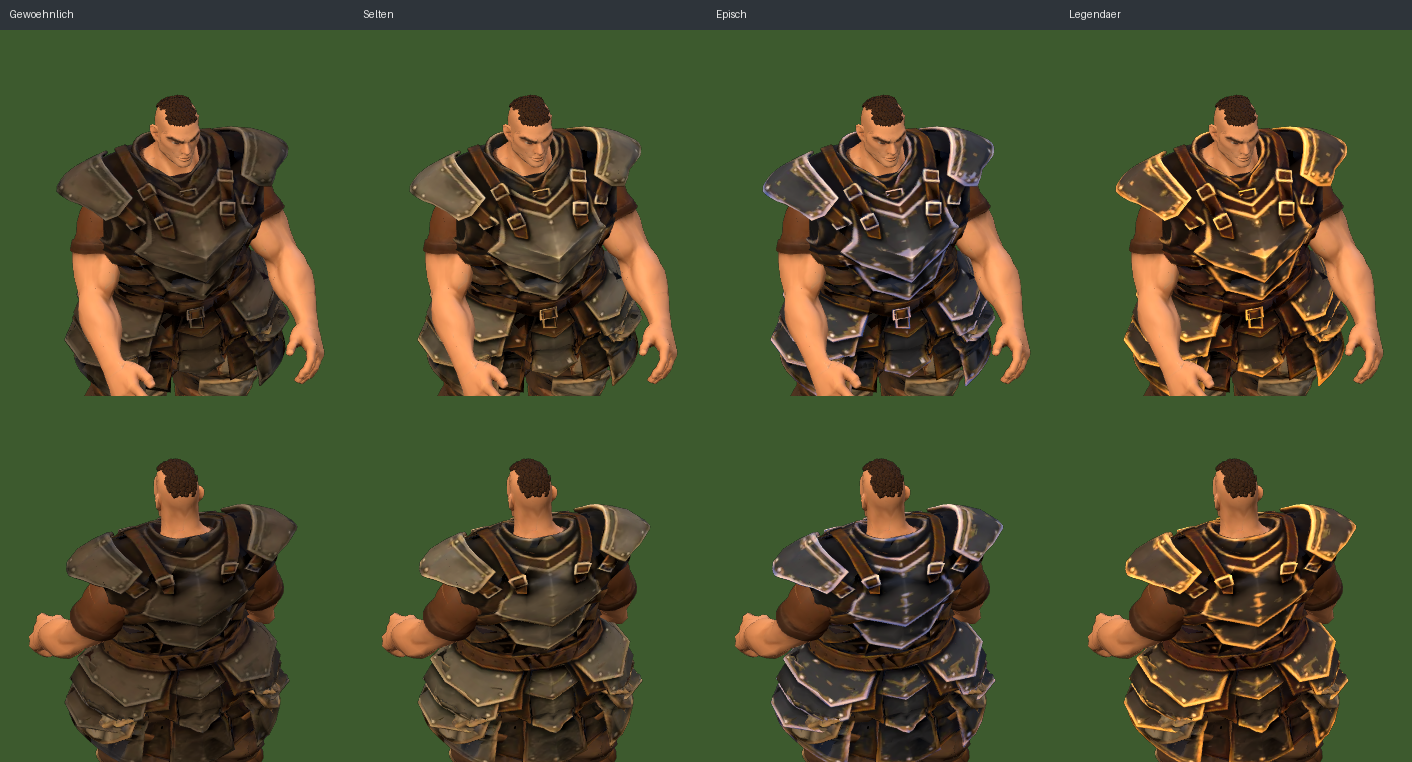
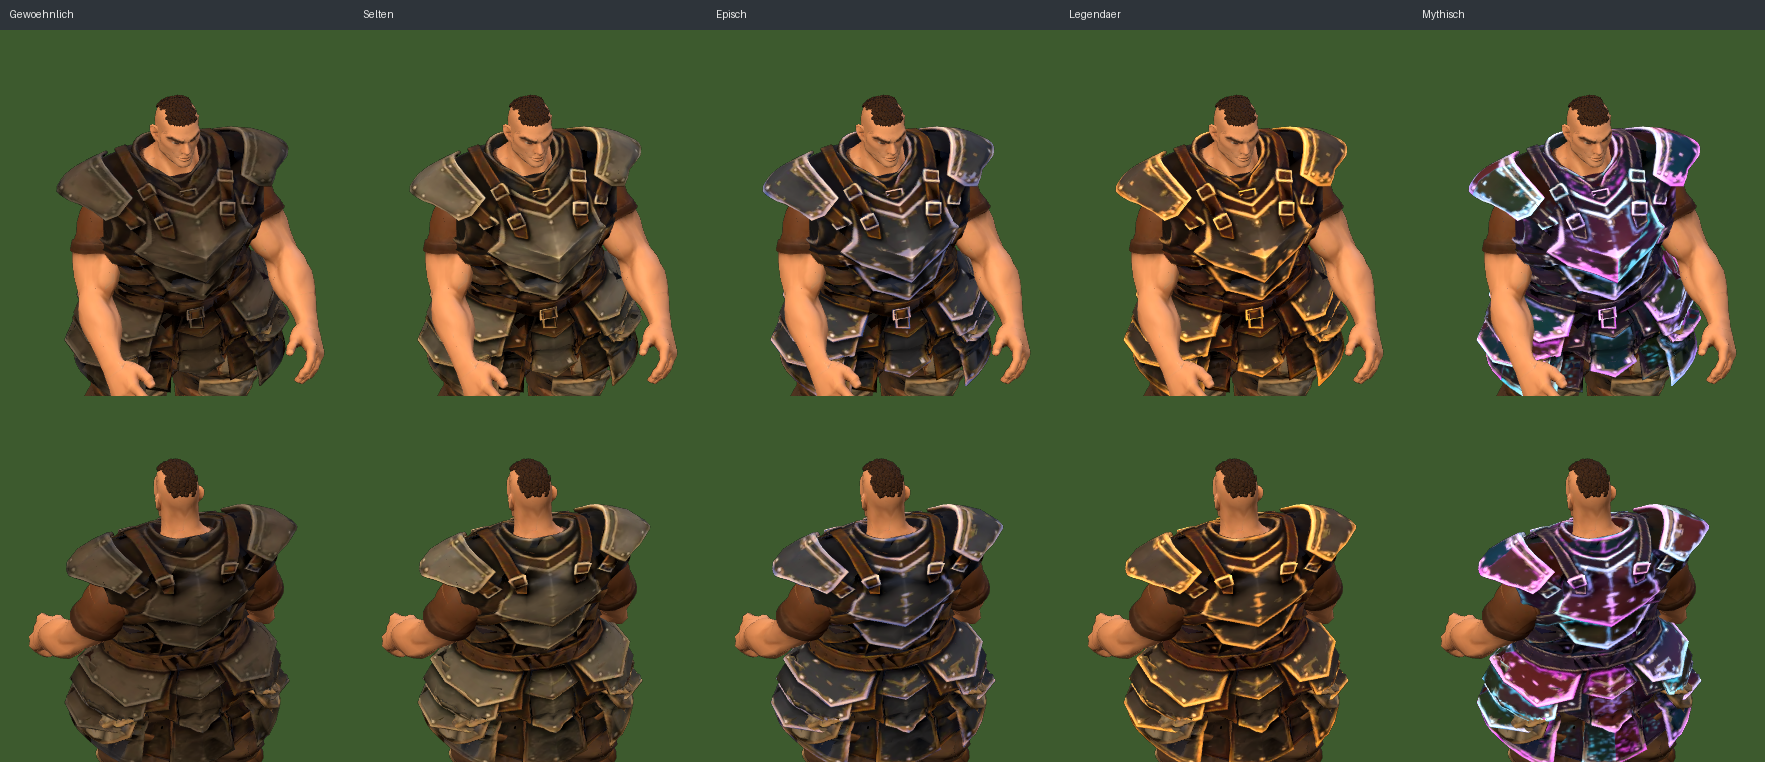
Fünfte Seltenheitsstufe „mythisch“: Obsidian mit Ölfilm-Schillern, Weißgold, Kanten und Energieadern leuchten von Türkis bis Magenta (Vorschau am Eisenwacht-Brustpanzer)
Claude-Session: https://claude.ai/code/session_01TxcDgCBymSgCktFtp5hokG

diff --git a/fabrik/seltenheit.py b/fabrik/seltenheit.py
@@ -2,12 +2,13 @@
 
   python3 fabrik/seltenheit.py <teil.glb> <ziel.glb> <stufe>
   teil.glb: am besten die fertige, ans Skelett gebundene Teil-Datei aus export3d.py auslagern=… (img/figuren-echt3d/<figur>.teile/<id>.glb)
-  stufe: gewoehnlich | selten | episch | legendaer
+  stufe: gewoehnlich | selten | episch | legendaer | mythisch
 Die Textur wird in drei Bereiche geteilt (Lab-Farbraum): Metall (grau, wenig Farbe), Beschläge (Messing: farbig und hell) und Leder (farbig und dunkel).
 Jede Stufe färbt sie eigen und legt bei episch/legendär eine Leuchtkarte auf die Beschläge (glTF emissive – three.js zeigt sie direkt):
   gewöhnlich – mattes, dunkles Eisen mit Rost, Beschläge aus Eisen      selten – unverändert (olivgrauer Stahl, Messing)
   episch     – geschwärzter Stahl mit blauem Schimmer, Gold, schwaches blaues Leuchten der Kanten
   legendär   – dunkler Stahl mit warmem Glanz, leuchtendes Gold, glühende Kanten (orange)
+  mythisch   – Obsidian mit Ölfilm-Schillern (Violett, Türkis, Rosa), Weißgold, Kanten und Energieadern leuchten von Türkis bis Magenta
 """
 import os, sys
 import numpy as np
@@ -48,11 +49,22 @@ elif stufe == "legendaer":
     setze(messing, fL=1.1, dL=6, fC=1.5, a=5, b=16)                         # leuchtendes Gold
     setze(leder, fL=0.85, a=6, b=-2)                                        # Leder tief rotbraun
     glut = (messing & (L[:, 0] > 45)).astype(float); glutfarbe = (1.0, 0.55, 0.15); glutstaerke = 0.75
+elif stufe == "mythisch":                                                  # über legendär, bewusst ausgefallen
+    v_, u_ = np.divmod(np.arange(len(L)), B_); u_ = u_ / B_; v_ = v_ / H_   # Lage in der Textur (für Verläufe)
+    schiller = np.stack([np.sin(u_ * 9 + v_ * 5) , np.cos(u_ * 7 - v_ * 8)], 1)   # Ölfilm-Schillern: Violett, Türkis, Rosa je nach Stelle
+    N[metall, 0] = L[metall, 0] * 0.42 + 4; N[metall, 1] = 22 * schiller[metall, 0] + 8; N[metall, 2] = 20 * schiller[metall, 1] - 10
+    N[messing, 0] = np.clip(L[messing, 0] * 1.05 + 22, 0, 96); N[messing, 1] = L[messing, 1] * 0.2 + 4; N[messing, 2] = L[messing, 2] * 0.35 + 6   # Weißgold
+    N[leder, 0] = L[leder, 0] * 0.6; N[leder, 1] = 14; N[leder, 2] = -18     # Leder tief violett
+    Lb = L[:, 0].reshape(H_, B_); gx = np.abs(np.diff(Lb, axis=1, append=Lb[:, -1:])); gy = np.abs(np.diff(Lb, axis=0, append=Lb[-1:, :]))
+    kante = (gx + gy).ravel(); adern = metall & (kante > np.percentile(kante[metall], 93)) & (L[:, 0] > 4)   # Energieadern: feine Linien im Metall
+    glut = np.maximum((messing & (L[:, 0] > 40)).astype(float), adern * 0.8); glutstaerke = 1.1
+    t_ = (np.sin(v_ * 12 + u_ * 3) + 1) / 2; glutfarbe = None; GLUT_RGB = np.stack([0.2 + 0.8 * t_, 0.85 - 0.6 * t_, 1.0 * np.ones_like(t_)], 1)   # Türkis ↔ Magenta
 elif stufe != "selten": sys.exit("Stufe unbekannt: " + stufe)
 a[:, :3] = rgb(N); img.pixels[:] = a.ravel(); img.pack()
 if glutstaerke:                                                             # Leuchtkarte: nur die Beschläge, weich ausgeblendet
     g = np.asarray(Image.fromarray((glut.reshape(H_, B_) * 255).astype(np.uint8)).resize((B_ // 2, H_ // 2), Image.BILINEAR).resize((B_, H_), Image.BILINEAR), np.float32) / 255
-    g = np.clip(g * 1.2, 0, 1).ravel(); e = np.zeros((B_ * H_, 4), np.float32); e[:, 0], e[:, 1], e[:, 2], e[:, 3] = g * glutfarbe[0], g * glutfarbe[1], g * glutfarbe[2], 1
+    g = np.clip(g * 1.2, 0, 1).ravel(); e = np.zeros((B_ * H_, 4), np.float32); e[:, 3] = 1
+    farbe = GLUT_RGB if glutfarbe is None else np.tile(np.array(glutfarbe, np.float32), (B_ * H_, 1)); e[:, :3] = g[:, None] * farbe
     eb = bpy.data.images.new("glut", B_, H_); eb.pixels[:] = e.ravel(); eb.pack()
     for m in bpy.data.materials:
         if not m.node_tree: continue
